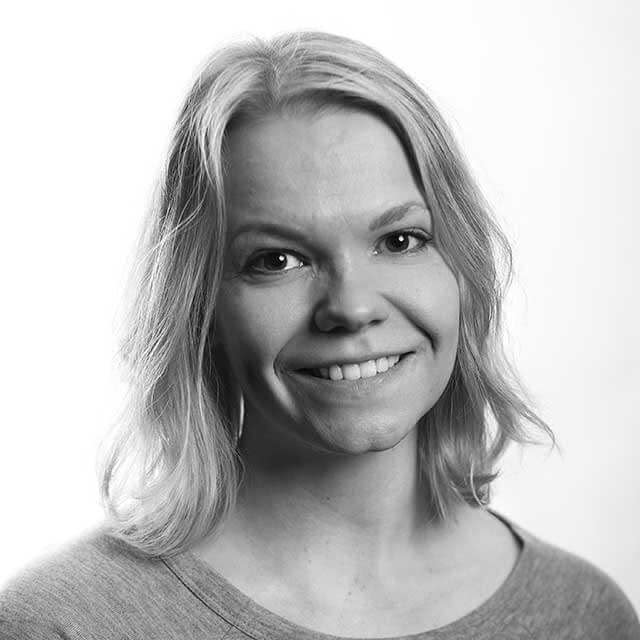
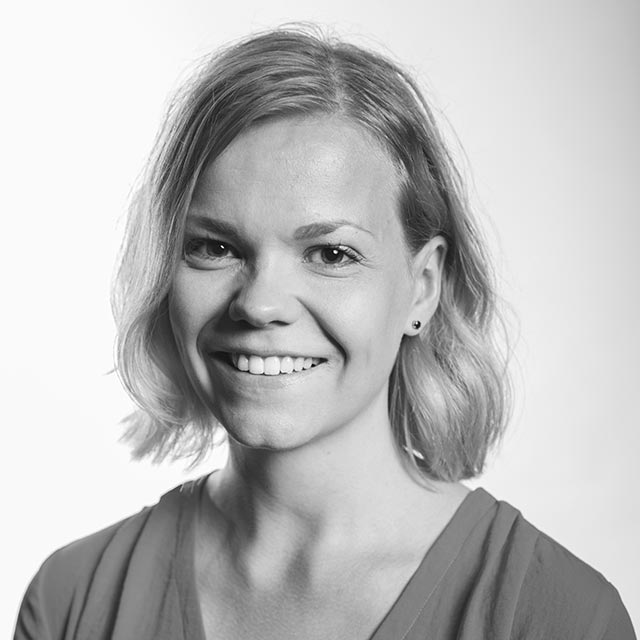
Added some staf

diff --git a/best-healthcare-education-in-the-world.html b/best-healthcare-education-in-the-world.html
@@ -427,17 +427,9 @@
             <div class="staff-desc">Tuomas Lipponen <br />
             CEO</div>
           </div>
-          <div class="staff-image" style="background-image: url('img/staff-jonni.jpg');">
-            <div class="staff-desc">Jonni Tammisto <br />
-            CTO</div>
-          </div>
-          <div class="staff-image" style="background-image: url('img/staff-anttoni.jpg');">
-            <div class="staff-desc">Anttoni Palm <br />
-            Production Director</div>
-          </div>
           <div class="staff-image" style="background-image: url('img/staff-niklas.jpg');">
             <div class="staff-desc"><a href="tel:358-50-558-0044">Niklas Nurttila <br />
-            International Sales</a> <br />
+            International Sales</a><br />
             <a href="tel:358-50-558-0044" class="tel">tel. +358 50 558 0044</a></div>
           </div>
           <div class="staff-image" style="background-image: url('img/staff-jp.jpg');">
@@ -450,16 +442,24 @@
             Key Account Representative</a> <br />
             <a href="tel:358-45-113-6763" class="tel">tel. +358 45 113 6763</a></div>
           </div>
+          <div class="staff-image" style="background-image: url('img/staff-jonni.jpg');">
+            <div class="staff-desc">Jonni Tammisto <br />
+            CTO</div>
+          </div>
+          <div class="staff-image" style="background-image: url('img/staff-anttoni.jpg');">
+            <div class="staff-desc">Anttoni Palm <br />
+            Production Director</div>
+          </div>
+          <div class="staff-image" style="background-image: url('img/staff-vilma.jpg');">
+            <div class="staff-desc">Vilma Lehtinen <br />
+            Community Manager</div>
+          </div>
           <div class="staff-image" style="background-image: url('img/staff-kauppila.jpg');">
             <div class="staff-desc">Joonas Kauppila <br />
             Medical Advisor</div>
           </div>
           <div class="staff-image" style="background-image: url('img/staff-anniina.jpg');">
             <div class="staff-desc">Anniina Palm <br />
-            Medical Advisor</div>
-          </div>
-          <div class="staff-image" style="background-image: url('img/staff-joonas.jpg');">
-            <div class="staff-desc">Joonas Lipponen <br />
             Medical Advisor</div>
           </div>
           <div class="staff-image" style="background-image: url('img/staff-elisa.jpg');">
@@ -474,17 +474,25 @@
             <div class="staff-desc">Kaarle Hurtig <br />
             Partner</div>
           </div>
-          <div class="staff-image" style="background-image: url('img/staff-mikkoha.jpg');">
+          <div class="staff-image" style="background-image: url('img/staff-joonatan.jpg');">
+            <div class="staff-desc">Joonatan Vuorela <br />
+            Web Developer</div>
+          </div>
+          <!--<div class="staff-image" style="background-image: url('img/staff-mikkoha.jpg');">
             <div class="staff-desc">Mikko Hakkarainen <br />
             Legal Advisor</div>
-          </div>
+          </div>-->
           <div class="staff-image" style="background-image: url('img/staff-mikko.jpg');">
             <div class="staff-desc">Mikko Heinänen <br />
             Production Coordinator</div>
           </div>
-          <div class="staff-image" style="background-image: url('img/staff-aija.png');">
+          <!--<div class="staff-image" style="background-image: url('img/staff-aija.png');">
             <div class="staff-desc">Aija Kaartinen <br />
             Financial Advisor</div>
+          </div>-->
+          <div class="staff-image" style="background-image: url('img/staff-joonas.jpg');">
+            <div class="staff-desc">Joonas Lipponen <br />
+            Medical Advisor</div>
           </div>
         </div>
       </div>

diff --git a/index.html b/index.html
@@ -342,14 +342,6 @@
             <div class="staff-desc">Tuomas Lipponen <br />
             CEO</div>
           </div>
-          <div class="staff-image" style="background-image: url('img/staff-jonni.jpg');">
-            <div class="staff-desc">Jonni Tammisto <br />
-            CTO</div>
-          </div>
-          <div class="staff-image" style="background-image: url('img/staff-anttoni.jpg');">
-            <div class="staff-desc">Anttoni Palm <br />
-            Production Director</div>
-          </div>
           <div class="staff-image" style="background-image: url('img/staff-jp.jpg');">
             <div class="staff-desc"><a href="tel:358-44-277-3029">Jussi Kurtti <br />
             Account Manager</a> <br />
@@ -365,16 +357,25 @@
             International Sales</a><br />
             <a href="tel:358-50-558-0044" class="tel">tel. +358 50 558 0044</a></div>
           </div>
+          <div class="staff-image" style="background-image: url('img/staff-jonni.jpg');">
+            <div class="staff-desc">Jonni Tammisto <br />
+            CTO</div>
+          </div>
+
+          <div class="staff-image" style="background-image: url('img/staff-anttoni.jpg');">
+            <div class="staff-desc">Anttoni Palm <br />
+            Production Director</div>
+          </div>
+          <div class="staff-image" style="background-image: url('img/staff-vilma.jpg');">
+            <div class="staff-desc">Vilma Lehtinen <br />
+            Community Manager</div>
+          </div>
           <div class="staff-image" style="background-image: url('img/staff-kauppila.jpg');">
             <div class="staff-desc">Joonas Kauppila <br />
             Medical Advisor</div>
           </div>
           <div class="staff-image" style="background-image: url('img/staff-anniina.jpg');">
             <div class="staff-desc">Anniina Palm <br />
-            Medical Advisor</div>
-          </div>
-          <div class="staff-image" style="background-image: url('img/staff-joonas.jpg');">
-            <div class="staff-desc">Joonas Lipponen <br />
             Medical Advisor</div>
           </div>
           <div class="staff-image" style="background-image: url('img/staff-elisa.jpg');">
@@ -389,19 +390,28 @@
             <div class="staff-desc">Kaarle Hurtig <br />
             Partner</div>
           </div>
-          <div class="staff-image" style="background-image: url('img/staff-mikkoha.jpg');">
+          <div class="staff-image" style="background-image: url('img/staff-joonatan.jpg');">
+            <div class="staff-desc">Joonatan Vuorela <br />
+            Web Developer</div>
+          </div>
+          <!--<div class="staff-image" style="background-image: url('img/staff-mikkoha.jpg');">
             <div class="staff-desc">Mikko Hakkarainen <br />
             Legal Advisor</div>
-          </div>
+          </div>-->
           <div class="staff-image" style="background-image: url('img/staff-mikko.jpg');">
             <div class="staff-desc">Mikko Heinänen <br />
             Production Coordinator</div>
           </div>
-          <div class="staff-image" style="background-image: url('img/staff-aija.png');">
+          <!--<div class="staff-image" style="background-image: url('img/staff-aija.png');">
             <div class="staff-desc">Aija Kaartinen <br />
             Financial Advisor</div>
+          </div>-->
+          <div class="staff-image" style="background-image: url('img/staff-joonas.jpg');">
+            <div class="staff-desc">Joonas Lipponen <br />
+            Medical Advisor</div>
           </div>
         </div>
+
       </div>
       <div class="staff-arrows">
         <div class="staff-arrows-holder">
